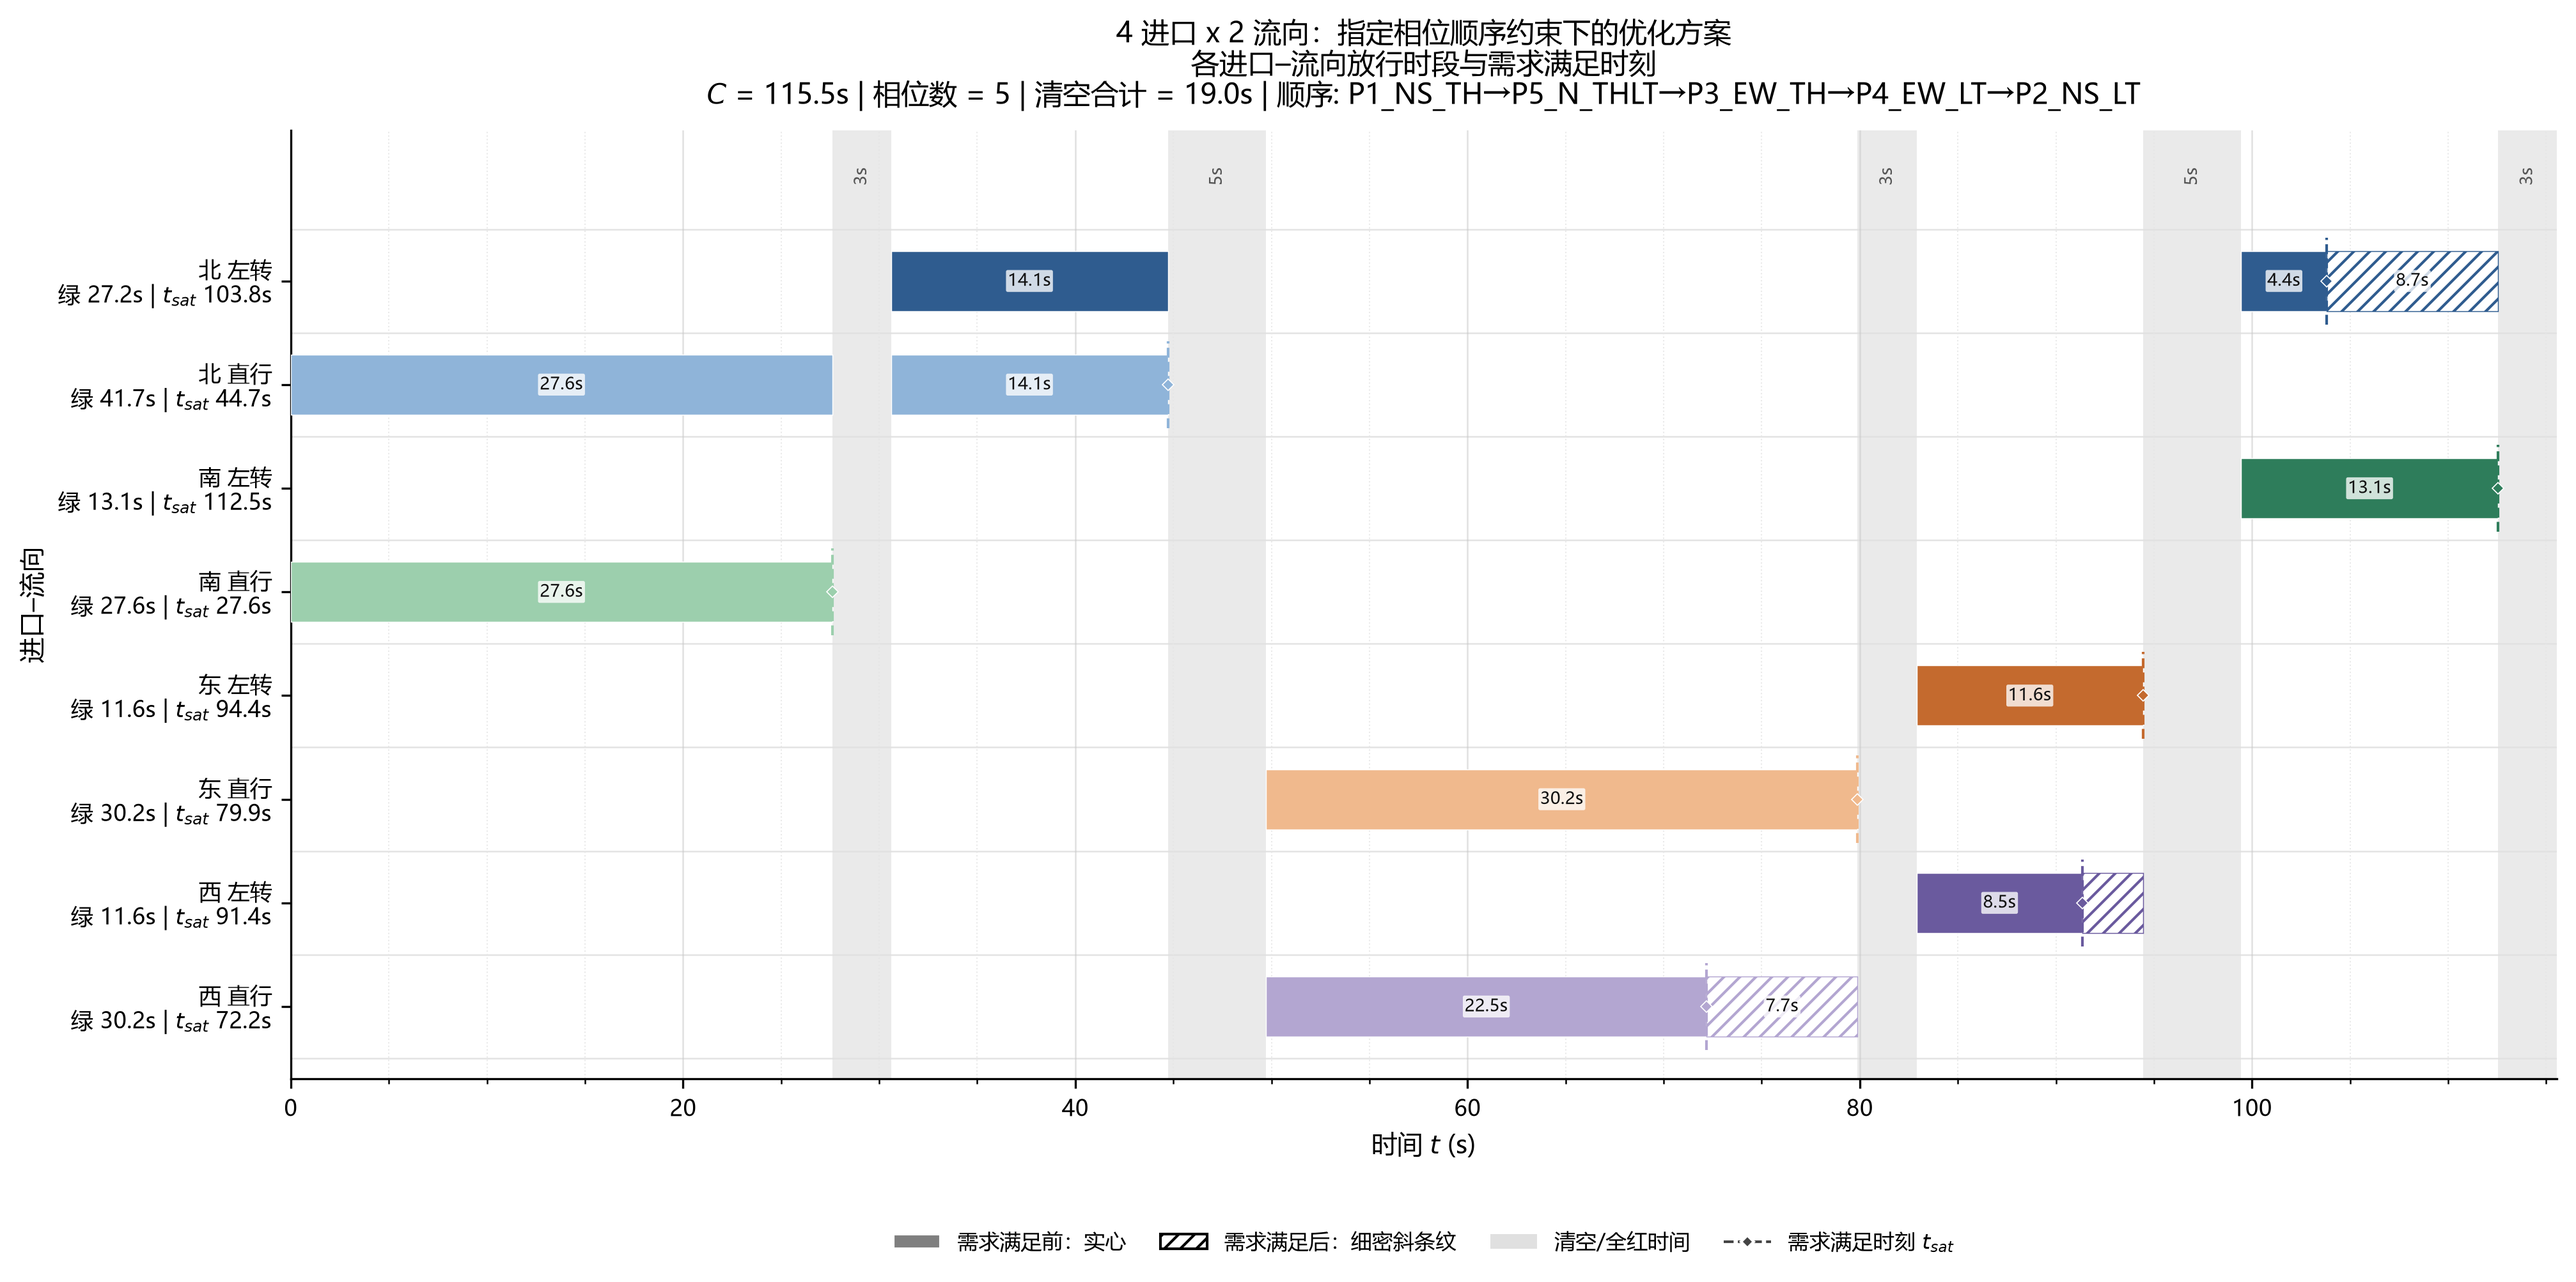
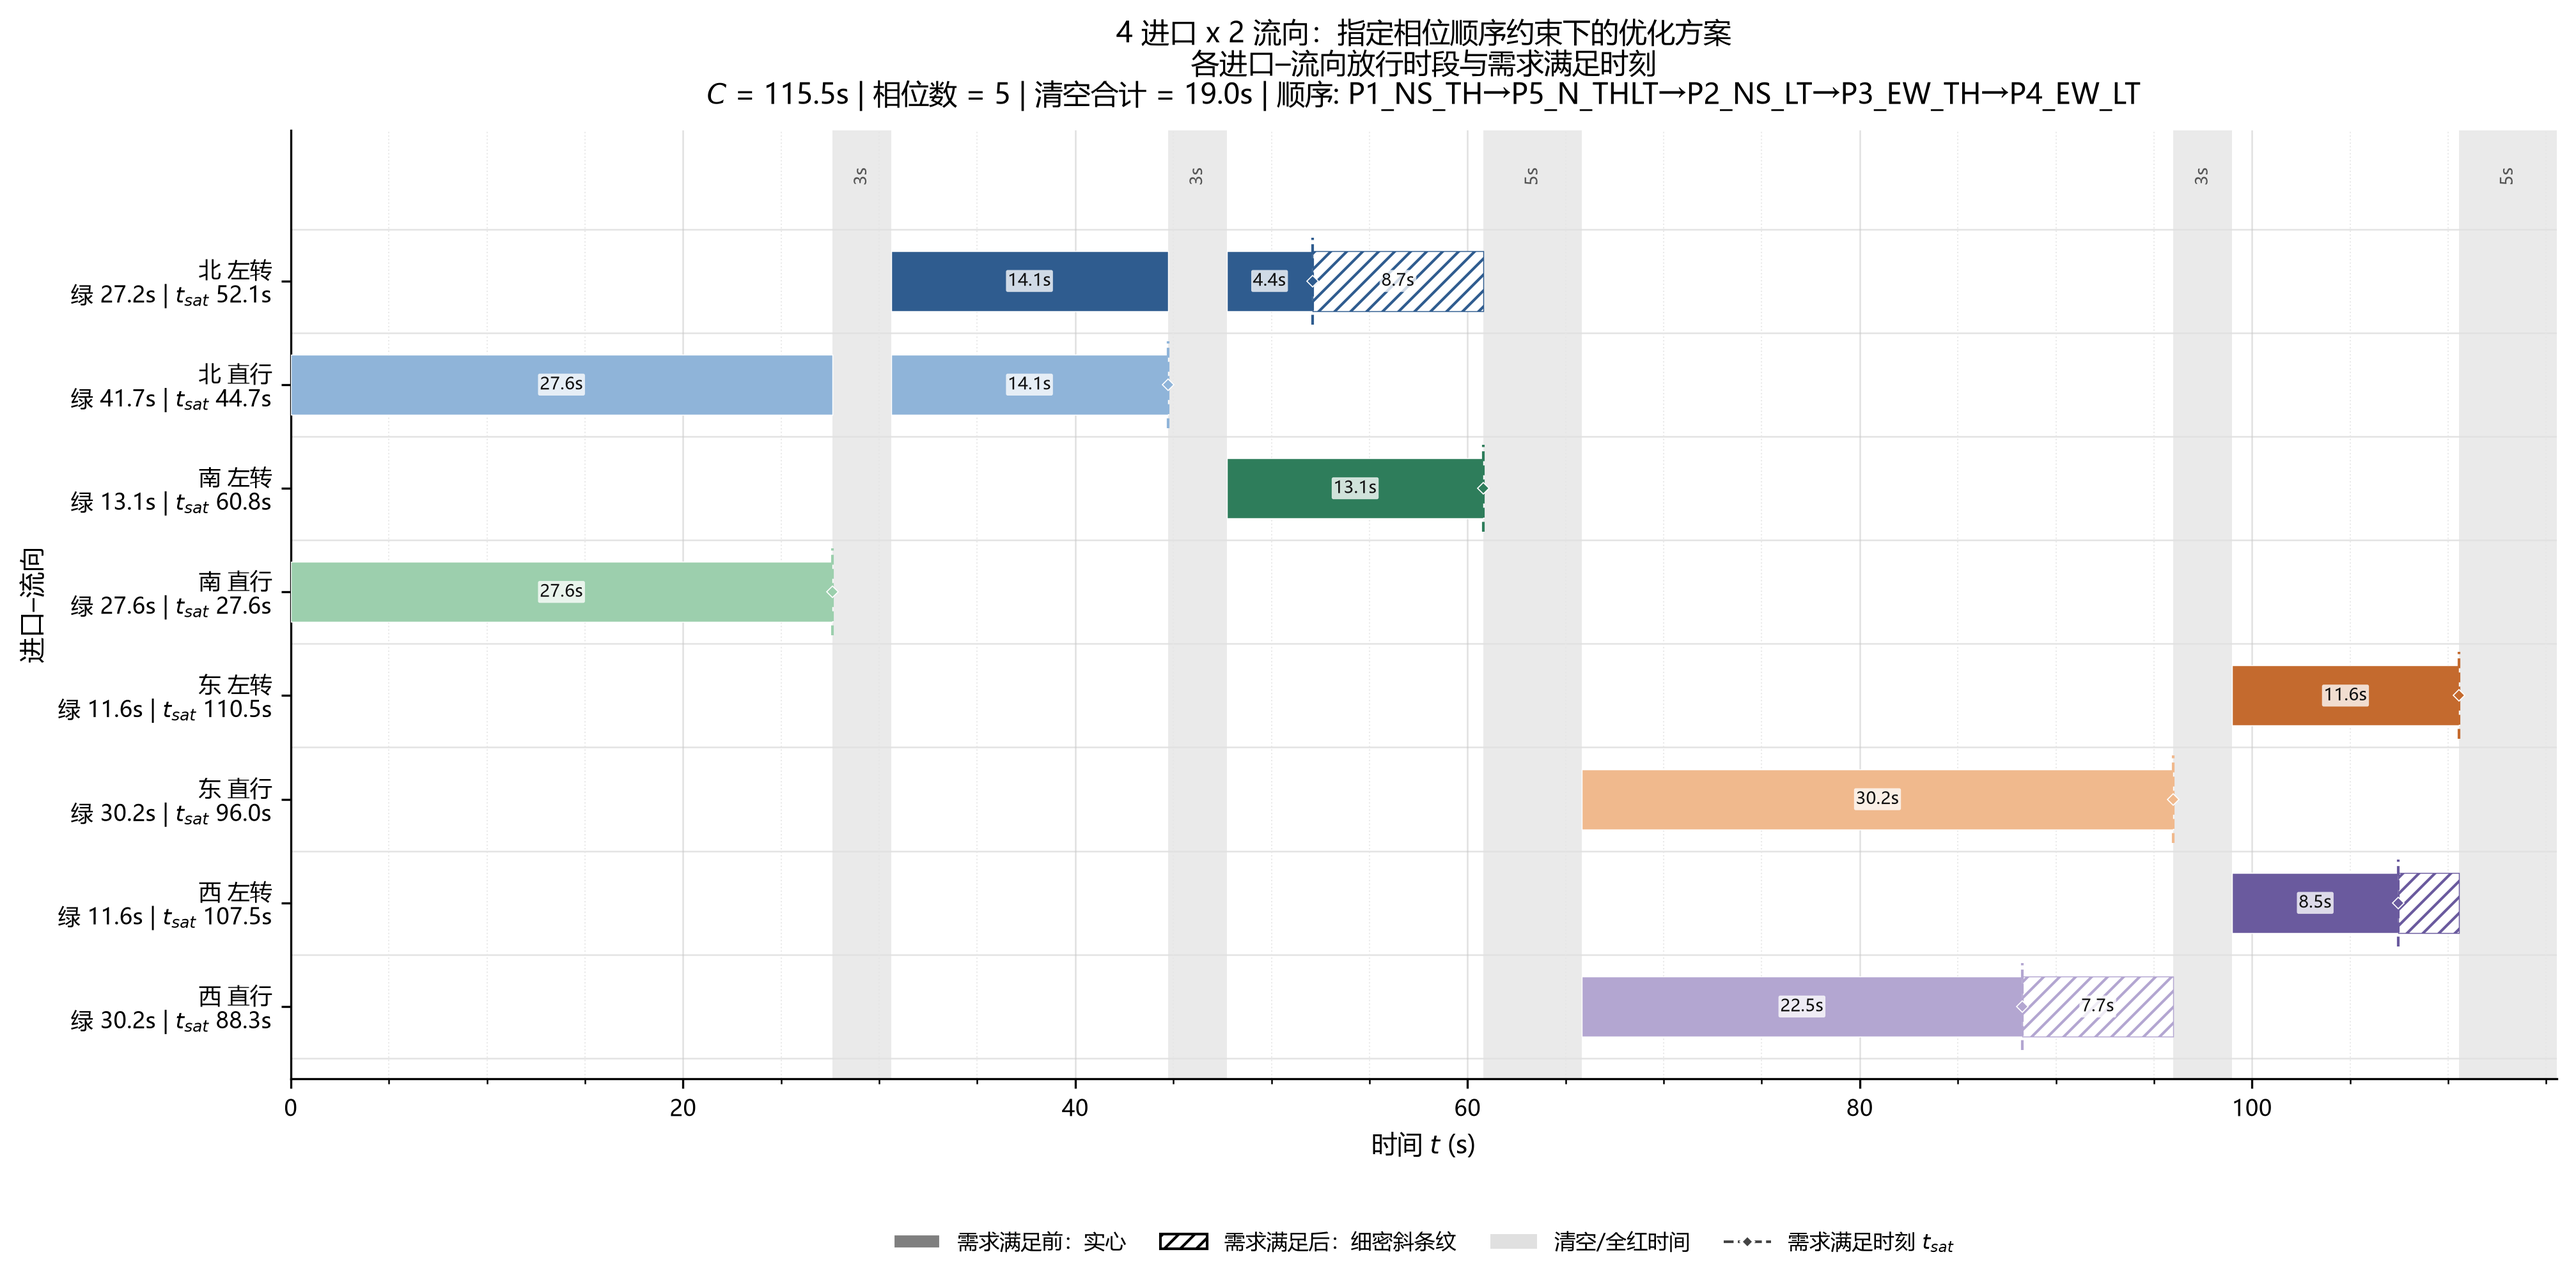
Change reference order to NS then EW groups

diff --git a/examples/four_approach_sequence_case.py b/examples/four_approach_sequence_case.py
@@ -1,16 +1,20 @@
 """4 进口 x 2 流向 + 南北搭接 + 指定相位顺序约束。
 
 顺序要求：
-1. 第一相位必须是南北直行 ``P1_NS_TH``；
-2. 然后是南北直行左转搭接相位 ``P5_N_THLT`` 或 ``P6_S_THLT``；
-3. 最后两个相位必须是两个左转相位 ``P2_NS_LT`` 和 ``P4_EW_LT``（两者内部顺序任意）。
-   如果存在东西直行相位 ``P3_EW_TH``，它应排在搭接相位之后、左转之前。
+南北组：直行 → 搭接 → 左转；然后东西组：直行 → 搭接 → 左转。
+
+具体到相位池：
+1. 南北直行 ``P1_NS_TH``；
+2. 南北搭接 ``P5_N_THLT`` / ``P6_S_THLT``（层内可互换）；
+3. 南北左转 ``P2_NS_LT``；
+4. 东西直行 ``P3_EW_TH``；
+5. 东西搭接 ``P7_E_THLT`` / ``P8_W_THLT``（层内可互换）；
+6. 东西左转 ``P4_EW_LT``。
 
 实现方式：
-- 给 ``IntersectionData`` 提供一个覆盖全部候选相位的 ``reference_order``；
-- 第二阶段用 ``reference_mode='prefer'``：先尝试与参考顺序一致的顺序，
-  不可行再回退到全枚举；
-- 由于当前最优解不主动选择 ``P2_NS_LT``，为了让"两个左转"都出现在顺序中，
+- 给 ``IntersectionData`` 提供一个覆盖全部候选相位的分层 ``reference_order``；
+- 第二阶段用 ``reference_mode='hard'`` 严格按参考层级枚举顺序；
+- 由于当前最优解不主动选择 ``P2_NS_LT``，为了让南北左转出现在顺序中，
   额外加一条硬约束 ``y(P2_NS_LT) >= 1`` 强制选中 P2。
 
 运行：
@@ -30,15 +34,20 @@ from signal_timing import (
     LexicographicOptimizer,
     Movement,
     Phase,
+    make_reference_order_filter,
 )
 from signal_timing.plotting import plot_movement_release_gantt
 
 
 REFERENCE_ORDER = [
-    ("P1_NS_TH",),                  # 1. 南北直行
-    ("P5_N_THLT", "P6_S_THLT"),     # 2. 两个南北搭接相位，层内可互换
-    ("P3_EW_TH",),                  # 3. 东西直行
-    ("P2_NS_LT", "P4_EW_LT"),       # 4. 两个左转相位，层内可互换
+    # 南北组：直行 → 搭接 → 左转
+    ("P1_NS_TH",),                  # 南北直行
+    ("P5_N_THLT", "P6_S_THLT"),     # 南北搭接，层内可互换
+    ("P2_NS_LT",),                  # 南北左转
+    # 东西组：直行 → 搭接 → 左转
+    ("P3_EW_TH",),                  # 东西直行
+    ("P7_E_THLT", "P8_W_THLT"),     # 东西搭接，层内可互换
+    ("P4_EW_LT",),                  # 东西左转
 ]
 
 
@@ -58,11 +67,14 @@ def build_data() -> IntersectionData:
         "P4_EW_LT": Phase("P4_EW_LT", {"E_left": c_left, "W_left": c_left}),
         "P5_N_THLT": Phase("P5_N_THLT", {"N_thr": c_thr, "N_left": c_left}),
         "P6_S_THLT": Phase("P6_S_THLT", {"S_thr": c_thr, "S_left": c_left}),
+        "P7_E_THLT": Phase("P7_E_THLT", {"E_thr": c_thr, "E_left": c_left}),
+        "P8_W_THLT": Phase("P8_W_THLT", {"W_thr": c_thr, "W_left": c_left}),
     }
     groups = {
         "P1_NS_TH": "NS", "P2_NS_LT": "NS",
         "P5_N_THLT": "NS", "P6_S_THLT": "NS",
         "P3_EW_TH": "EW", "P4_EW_LT": "EW",
+        "P7_E_THLT": "EW", "P8_W_THLT": "EW",
     }
     lost = {}
     for i in phases:
@@ -96,7 +108,7 @@ def main() -> None:
     )
 
     result = opt.solve(
-        reference_mode="prefer",   # 先尝试参考顺序，不可行再回退
+        reference_mode="hard",     # 严格按“南北组 → 东西组”的参考层级
         allow_cycle_reduction=True,
     )
 
@@ -116,11 +128,10 @@ def main() -> None:
         print(f"{p:<12s} {result.greens[p]:>10.2f} {served:<28s}")
     print("=" * 78)
 
-    # 检查顺序是否满足规则
+    # 检查顺序是否满足分层参考顺序
     order = list(result.order)
-    ok_first = order[0] == "P1_NS_TH"
-    ok_last = set(order[-2:]) == {"P2_NS_LT", "P4_EW_LT"}
-    print(f"顺序规则检查：首相位南北直行={ok_first}，最后两个为左转={ok_last}")
+    ok_tier = make_reference_order_filter(REFERENCE_ORDER)(tuple(order))
+    print(f"顺序规则检查：满足分层参考顺序={ok_tier}")
     print(
         "参考顺序："
         + " → ".join(

diff --git a/signal_timing/ordering.py b/signal_timing/ordering.py
@@ -160,25 +160,31 @@ class OrderingPostProcessor:
             if res is None:
                 continue
             feasible_count += 1
-            deviation = 0
-            if ref is not None and reference_mode in ("soft", "prefer"):
-                deviation = self._reference_deviation(order, ref)
+            use_reference = ref is not None and reference_mode in ("soft", "prefer")
+            deviation = (
+                self._reference_deviation(order, ref) if use_reference else 0
+            )
             if best is None:
                 best = res
                 best_deviation = deviation
                 continue
-            # 目标函数显著更优 -> 替换（主目标优先）
-            tol = abs(best.objective) * reference_tolerance + 1e-9
-            if res.objective < best.objective - tol:
-                best = res
-                best_deviation = deviation
-            # 目标函数在容差内 -> 用参考偏差做次级排序
-            elif (
-                res.objective <= best.objective + tol
-                and deviation < best_deviation
-            ):
-                best = res
-                best_deviation = deviation
+            if use_reference:
+                # 目标函数显著更优 -> 替换；容差内 -> 用参考偏差做次级排序
+                tol = abs(best.objective) * reference_tolerance + 1e-9
+                if res.objective < best.objective - tol:
+                    best = res
+                    best_deviation = deviation
+                elif (
+                    res.objective <= best.objective + tol
+                    and deviation < best_deviation
+                ):
+                    best = res
+                    best_deviation = deviation
+            else:
+                # 无参考顺序：保持原始严格目标比较
+                if res.objective < best.objective - 1e-12:
+                    best = res
+                    best_deviation = 0
         if best is None:
             return None
         best.message = (

diff --git a/tests/test_four_approach_case.py b/tests/test_four_approach_case.py
@@ -123,6 +123,37 @@ class TestFourApproachOverlapCase(unittest.TestCase):
         )
         self.assertTrue(result.verification["passed"])
 
+    def test_ns_then_ew_reference_order(self):
+        ref_groups = [
+            ("P1_NS_TH",),                  # 南北直行
+            ("P5_N_THLT", "P6_S_THLT"),     # 南北搭接
+            ("P2_NS_LT",),                  # 南北左转
+            ("P3_EW_TH",),                  # 东西直行
+            ("P7_E_THLT", "P8_W_THLT"),     # 东西搭接
+            ("P4_EW_LT",),                  # 东西左转
+        ]
+        data = four_approach_data(
+            include_overlap=True,
+            include_ew_overlap=True,
+            reference_order=ref_groups,
+        )
+        opt = LexicographicOptimizer(data, mip_rel_gap=0.001, time_limit=30.0)
+        opt.add_constraint(
+            ConstraintSpec(
+                name="force_P2_NS_LT",
+                coeffs={("y", "P2_NS_LT"): 1.0},
+                sense=">=",
+                rhs=1.0,
+            )
+        )
+        result = opt.solve(reference_mode="hard", allow_cycle_reduction=True)
+        # 南北组：P1 -> P5 -> P2；东西组：P3 -> P4（东西搭接 P7/P8 未选中）
+        self.assertEqual(
+            result.order,
+            ["P1_NS_TH", "P5_N_THLT", "P2_NS_LT", "P3_EW_TH", "P4_EW_LT"],
+        )
+        self.assertTrue(result.verification["passed"])
+
     def test_grouped_reference_order_allows_ties(self):
         ref_groups = [
             ("P1_NS_TH",),

diff --git a/tests/helpers.py b/tests/helpers.py
@@ -97,6 +97,7 @@ def compiler_registry(
 def four_approach_data(
     include_overlap: bool = True,
     reference_order=None,
+    include_ew_overlap: bool = False,
 ) -> IntersectionData:
     """4 进口 x 2 流向案例：对称相位 + 南北直行左转搭接相位。"""
     demands = {
@@ -124,6 +125,13 @@ def four_approach_data(
         phases["P6_S_THLT"] = Phase(
             "P6_S_THLT", {"S_thr": c_thr, "S_left": c_left}
         )
+    if include_ew_overlap:
+        phases["P7_E_THLT"] = Phase(
+            "P7_E_THLT", {"E_thr": c_thr, "E_left": c_left}
+        )
+        phases["P8_W_THLT"] = Phase(
+            "P8_W_THLT", {"W_thr": c_thr, "W_left": c_left}
+        )
     groups = {
         "P1_NS_TH": "NS",
         "P2_NS_LT": "NS",
@@ -131,6 +139,8 @@ def four_approach_data(
         "P6_S_THLT": "NS",
         "P3_EW_TH": "EW",
         "P4_EW_LT": "EW",
+        "P7_E_THLT": "EW",
+        "P8_W_THLT": "EW",
     }
     lost = {}
     for i in phases:

diff --git a/算法库使用说明.md b/算法库使用说明.md
@@ -1303,19 +1303,27 @@ selected = P1_NS_TH, P2_NS_LT, P3_EW_TH, P4_EW_LT
 - 同一层内的相位可以互换；
 - 必须覆盖全部候选相位，且每个相位只能出现一次。
 
-例如当前 4 进口案例：
+例如当前 4 进口案例，如果想按“南北组（直行 → 搭接 → 左转）→ 东西组（直行 → 搭接 → 左转）”组织，需要相位池中同时有东西搭接候选：
 
 ```python
+# 在原有 P1~P6 基础上，补充东西搭接候选：
+# P7_E_THLT = 东进口直行 + 左转
+# P8_W_THLT = 西进口直行 + 左转
+
 REFERENCE_ORDER = [
-    ("P1_NS_TH",),                  # 1. 南北直行
-    ("P5_N_THLT", "P6_S_THLT"),     # 2. 两个南北搭接相位，层内可互换
-    ("P3_EW_TH",),                  # 3. 东西直行
-    ("P2_NS_LT", "P4_EW_LT"),       # 4. 两个左转相位，层内可互换
+    # 南北组：直行 → 搭接 → 左转
+    ("P1_NS_TH",),
+    ("P5_N_THLT", "P6_S_THLT"),     # 南北搭接，层内可互换
+    ("P2_NS_LT",),
+    # 东西组：直行 → 搭接 → 左转
+    ("P3_EW_TH",),
+    ("P7_E_THLT", "P8_W_THLT"),     # 东西搭接，层内可互换
+    ("P4_EW_LT",),
 ]
 
 data = IntersectionData(
     movements=...,
-    phases=...,
+    phases=...,                     # 包含 P1~P8
     lost_time=...,
     g_min=11.0, c_min=40.0, c_max=180.0,
     reference_order=REFERENCE_ORDER,
@@ -1343,19 +1351,23 @@ result = opt.solve(reference_mode="none")
 | `prefer` / `soft` | 枚举全部顺序；若某顺序的浪费在 `reference_tolerance` 容差内，则优先选层级逆序更少的 |
 | `none` | 忽略参考顺序，退化为原始全枚举 |
 
-当前案例（强制选中 `P2_NS_LT`，使两个左转都出现）：
+当前案例（强制选中 `P2_NS_LT`，`reference_mode="hard"`）：
 
 ```text
 最终周期 C = 115.541 s
+第一阶段保守 C* = 152.027 s
 选中相位 = P1_NS_TH, P2_NS_LT, P3_EW_TH, P4_EW_LT, P5_N_THLT
-相位顺序 = P1_NS_TH → P5_N_THLT → P3_EW_TH → P4_EW_LT → P2_NS_LT
+相位顺序 = P1_NS_TH → P5_N_THLT → P2_NS_LT → P3_EW_TH → P4_EW_LT
 ```
 
 说明：
 
-- `P6_S_THLT` 在当前最优解中没有被选中，因此参考顺序中的第 2 层退化为只有 `P5_N_THLT`；
-- 第 4 层 `P2_NS_LT` / `P4_EW_LT` 在硬模式下会枚举两种层内顺序，选择浪费更小的 `P4 → P2`；
-- 若只想表达非常简单/复杂的顺序规则，仍然可以继续使用 `order_filter`；
+- 南北组：`P1_NS_TH`（直行）→ `P5_N_THLT`（搭接）→ `P2_NS_LT`（左转）；
+- 东西组：`P3_EW_TH`（直行）→ `P4_EW_LT`（左转）；
+- `P6_S_THLT`、`P7_E_THLT`、`P8_W_THLT` 在当前最优解中没有被选中，因此相应搭接层为空；
+- 东西方向即使补充了 `P7/P8` 搭接候选，最优解仍然选择 `P3_EW_TH → P4_EW_LT`，周期保持 115.541s；
+- `hard` 模式严格按层级枚举；`prefer/soft` 模式允许在浪费目标容差内用层级逆序做次级偏好；
+- 更复杂的顺序规则仍然可以继续使用 `order_filter`；
 - `make_reference_order_filter(reference_order)` 可以把分层参考顺序直接转成 `order_filter`。
 
 完整示例见 `examples/four_approach_sequence_case.py`。

diff --git a/README_实现说明.md b/README_实现说明.md
@@ -61,7 +61,8 @@ cd /mnt/e/PythonProjects/intersection_milp
 - 可视化：甘特区间构造、周期/清空时间正确性、需求满足时刻计算、两种甘特图 PNG 输出；
 - 复杂案例：4 进口 x 2 流向、6 候选相位（4 对称 + 2 南北直行左转搭接），
   验证最小绿 >10s、需求满足、搭接相位不劣于纯对称方案；
-- 指定相位顺序约束：`P1_NS_TH → 搭接相位 → P3_EW_TH → P2/P4 左转`；
+- 指定相位顺序约束/分层参考顺序：南北组（直行 → 搭接 → 左转）→
+  东西组（直行 → 搭接 → 左转）；
 - 分层参考顺序：支持“同层相位可互换”的全局参考顺序和 `hard`/`prefer`/`soft` 三种模式。
 
 ## 4. 与设计文档的对应
